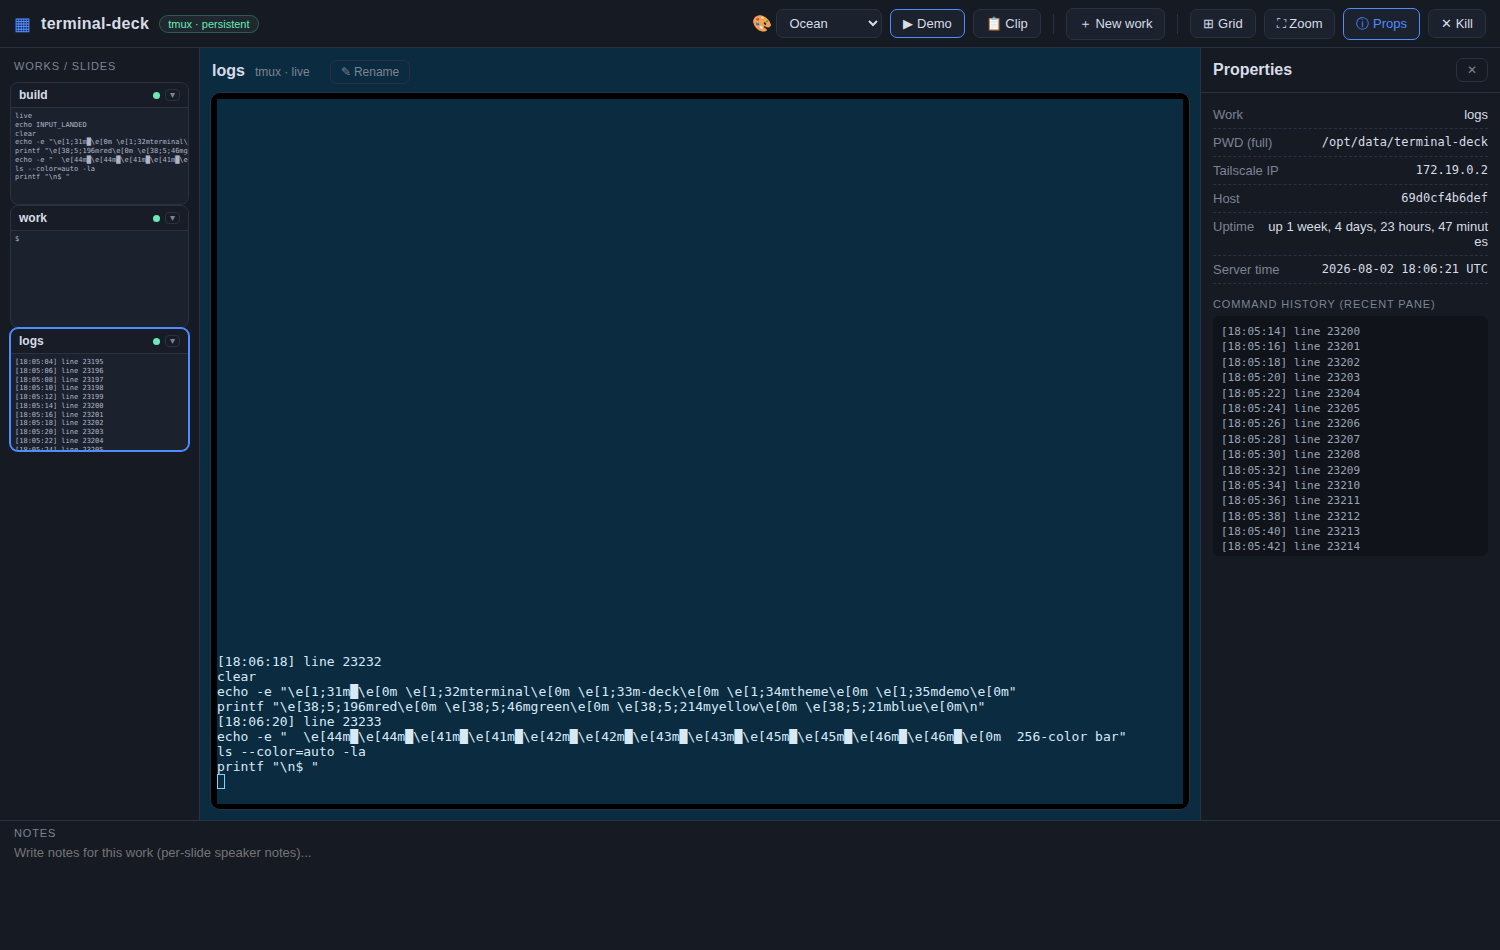
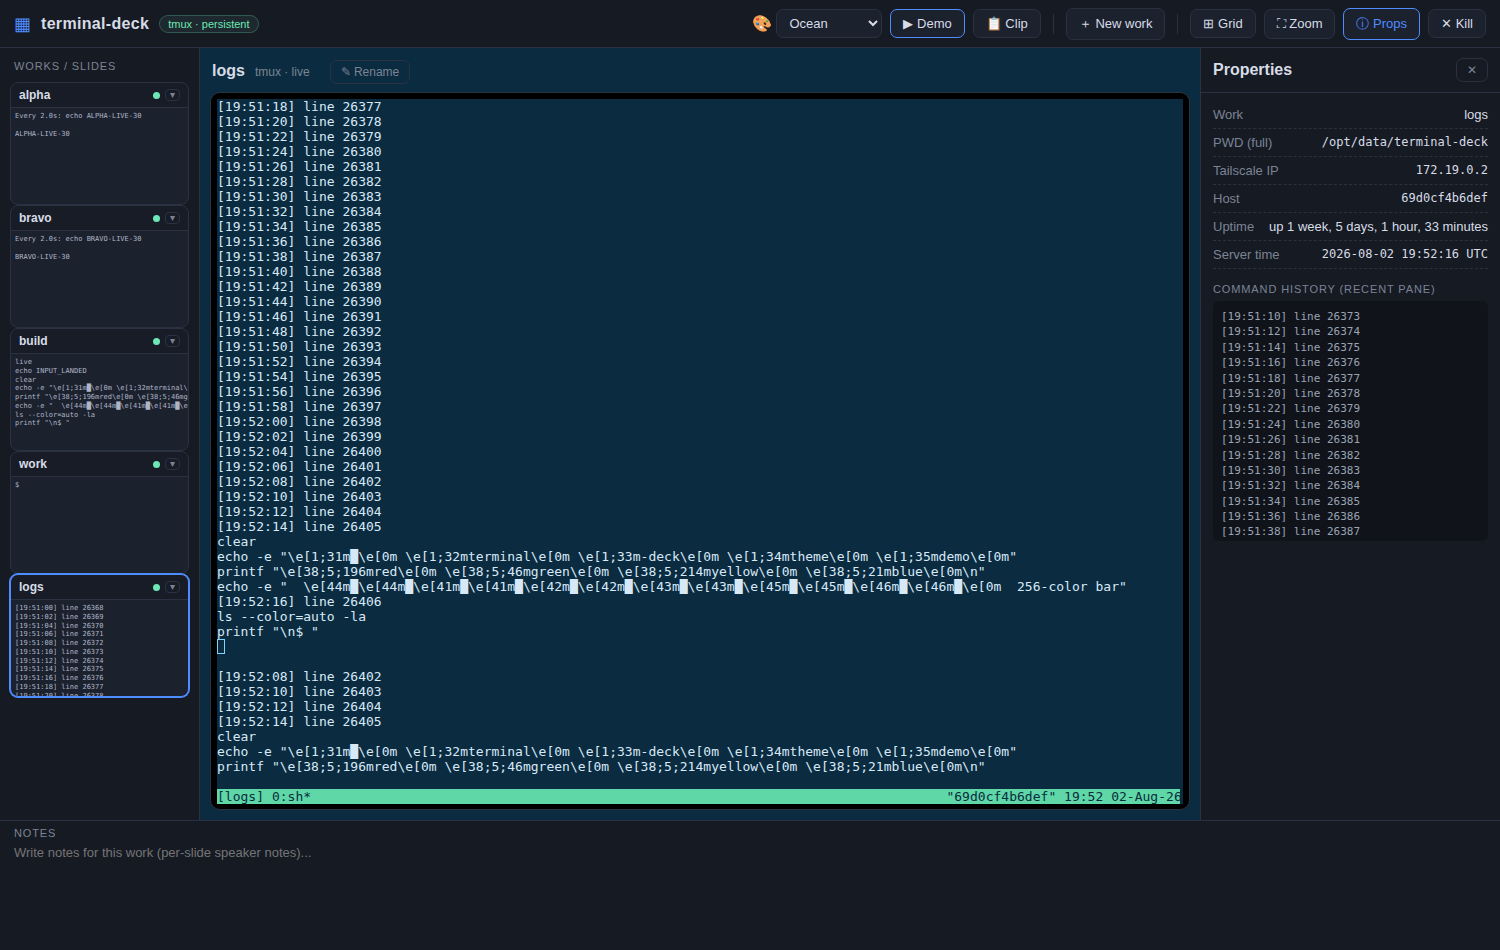
fix(ui): main pane shows wrong/blank session when switching between terminals
Root cause: tmux only sends a FULL screen redraw to a freshly attached client.
The frontend cached tokens (state.tokens[name]) and on re-activation hit an
early return (term.clear() + no re-send), while the server pty streamed only
partial diffs — so the xterm buffer was wiped and never repainted (blank or
stale content), even though thumbnails (capture-pane) stayed correct.

Fix:
- app.js attachMain: ALWAYS re-attach on activation; drop the cached-token
  early return
- server.js openMain: on re-attach, kill the old attach pty (suppressing its
  'bye') and respawn, so tmux repaints the full screen

Verified: 7/7 alternating switches show correct session; full UI harness passes.

diff --git a/server.js b/server.js
@@ -195,8 +195,15 @@ function diagnoseSpawn() {
 }
 
 function openMain(ws, token, session, cols, rows) {
-  // If we already have this token, just return (idempotent).
-  if (mains.has(token)) return;
+  // Re-attach semantics: every activation re-spawns the attach pty so tmux
+  // sends a FULL screen redraw (tmux only fully repaints a fresh client).
+  // Kill any existing pty for this token first — but suppress its 'bye' so
+  // the client doesn't see a bogus session-end.
+  const old = mains.get(token);
+  if (old) {
+    mains.delete(token);
+    try { old.pty._suppressBye = true; old.pty.kill(); } catch {}
+  }
   // Pre-flight: node-pty's generic "posix_spawnp failed" hides the real cause.
   // Give a precise error if tmux is missing or not executable.
   try {
@@ -221,6 +228,7 @@ function openMain(ws, token, session, cols, rows) {
       name: 'xterm-256color', cols: cols || 132, rows: rows || 43, cwd: os.homedir(),
       env: tmuxEnv({ TERM: 'xterm-256color' }),
     });
+    console.error(`[td] ${new Date().toISOString().slice(11,19)} pty spawn token=${token} session=${session} pid=${p.pid}`);
   } catch (e) {
     // A failed spawn must NEVER take down the whole deck — report to this pane.
     // node-pty's "posix_spawnp failed" is generic; gather the real facts.
@@ -234,7 +242,11 @@ function openMain(ws, token, session, cols, rows) {
     return;
   }
   p.onData((data) => { if (ws.readyState === ws.OPEN) ws.send(JSON.stringify({ t: 'data', token, data })); });
-  p.onExit(() => { if (ws.readyState === ws.OPEN) ws.send(JSON.stringify({ t: 'bye', token })); mains.delete(token); });
+  p.onExit(({ exitCode, signal }) => {
+    console.error(`[td] ${new Date().toISOString().slice(11,19)} pty exit token=${token} session=${session} code=${exitCode} sig=${signal} suppress=${!!p._suppressBye}`);
+    if (!p._suppressBye && ws.readyState === ws.OPEN) ws.send(JSON.stringify({ t: 'bye', token }));
+    mains.delete(token);
+  });
   mains.set(token, { pty: p, session });
   if (!socketTokens.has(ws)) socketTokens.set(ws, new Set());
   socketTokens.get(ws).add(token);

diff --git a/public/app.js b/public/app.js
@@ -328,7 +328,10 @@ function setActive(name) {
 }
 
 function attachMain(name) {
-  if (state.tokens[name]) { if (term) term.clear(); return; }
+  // ALWAYS re-attach on activation: a cached token does NOT mean the screen is
+  // intact — the xterm buffer gets cleared on switch, and tmux only sends a
+  // full redraw to a freshly attached client. Re-sending 'main' makes the
+  // server respawn the attach pty so the pane repaints completely.
   const token = 'main:' + name;
   state.tokens[name] = token;
   ensureTerm();
